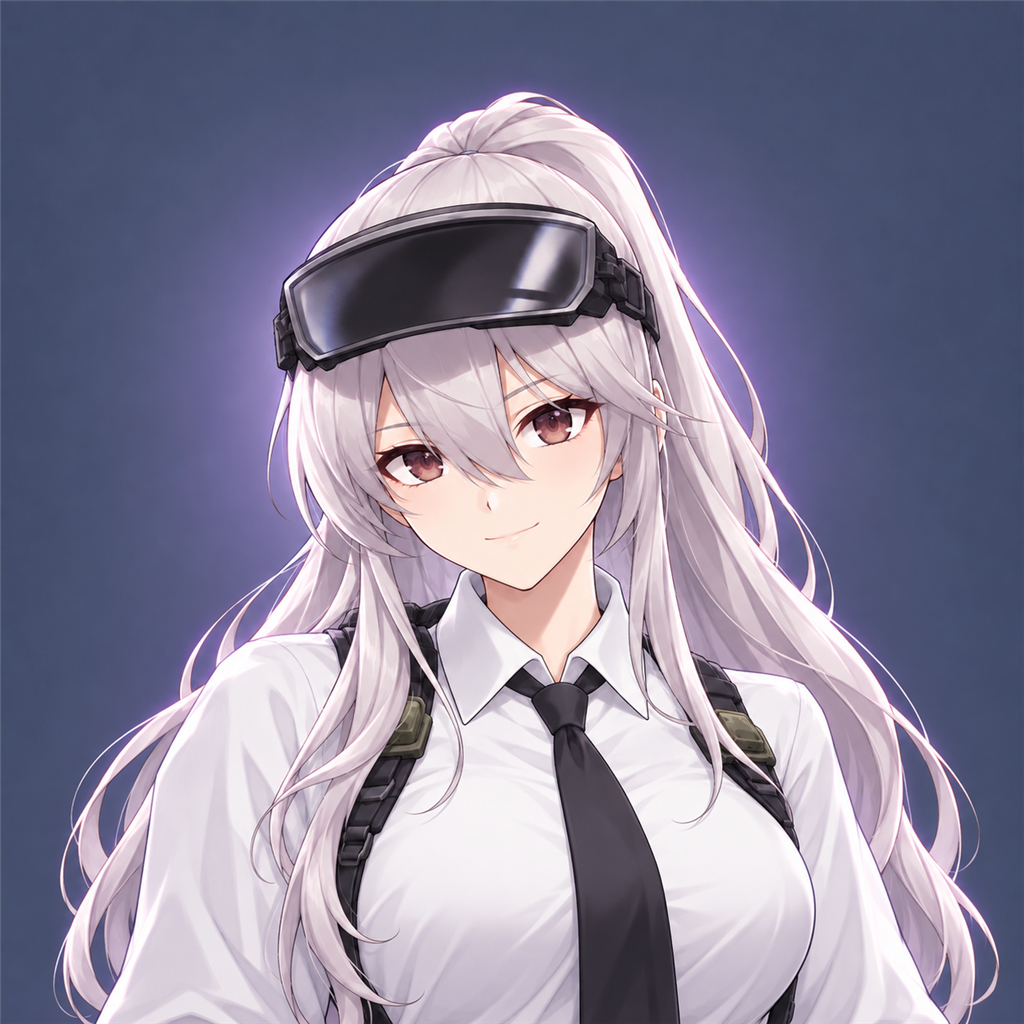
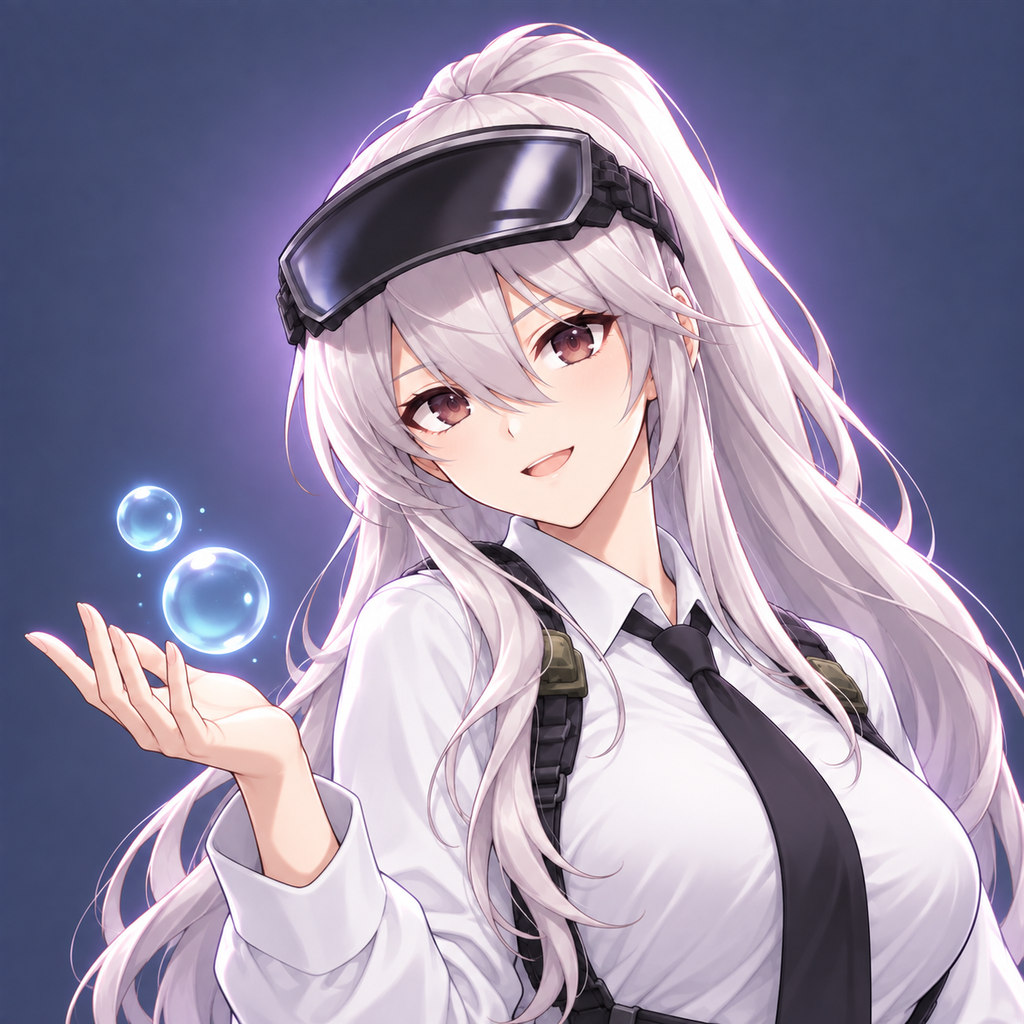
feat：换头像

diff --git a/Assets/Splatoon/Editor/Prototype/SplooshGirlBuilder.cs b/Assets/Splatoon/Editor/Prototype/SplooshGirlBuilder.cs
@@ -141,7 +141,8 @@ namespace Splatoon.Editor
             profile.MuzzlePosition = go.transform.InverseTransformPoint(view.Nozzle.position); profile.LeftMuzzlePosition = profile.MuzzlePosition;
             EditorUtility.SetDirty(profile);
             view.TeamMarker.enabled = false;
-            Capture(go, scene, "Assets/GameResource/UI/HeroPortraits/SplooshGirlPortrait.png", 512);
+            // Model calibration previews must not overwrite the authored UI portrait.
+            Capture(go, scene, Report + "/hero-portrait-preview.png", 512);
             Capture(go, scene, Report + "/hero-front.png", 1000);
             graph.Destroy(); Object.DestroyImmediate(go);
         }

diff --git a/Docs/HeroSelection/PortraitPrompts.md b/Docs/HeroSelection/PortraitPrompts.md
@@ -24,3 +24,36 @@ RifleGirl, DualPistolGirl, ShotgunGirl and MachineGunGirl received this targeted
 > Edit this exact portrait only to ZOOM OUT the composition by 25 percent, revealing the COMPLETE top of the head, all hair, hat and accessories and at least 7 percent empty background margin ABOVE the highest point. Add the missing top content naturally. Preserve this exact character identity, hairstyle, costume, expression, style, color scheme and background. IMPORTANT no headwear or hair cut off at top. Keep square canvas, resize final output to exactly 1024 x 1024 pixels. Chest-up bust, one character, no text. Do not invent a cheek beauty mark if the current character is not the pink beret girl; remove cheek dot for silver-white ponytail girl.
 
 The returned files were technically normalized to the requested 1024 × 1024 pixel size without changing their composition. The originals were retained. Visual checks covered headgear cropping, identity, text absence and the actual 100-pixel in-game card presentation.
+
+
+## 2026-09-20: nine distinct hero portraits
+
+All nine selectable heroes now have independently redrawn portraits, generated using the built-in imagegen tool. Existing portraits were identity/style references; SplooshGirl used RifleGirl as the shared identity reference with explicit chibi proportions. Original outputs remain in the Codex generated-images folder; installed PNGs are normalized to 1024 x 1024 without cropping. Existing asset GUIDs and import settings are preserved. BubbleShotgunGirl has a new portrait asset and Addressables entry; TbHero.xlsx is the authoritative source of its new address.
+
+### Prompt template
+
+```text
+Use case: stylized-concept. Create ONE replacement hero-selection portrait, exactly 1024x1024 square PNG. Reference image is identity and illustration style reference, NOT a pose template. Keep this character's hair color, hairstyle, eyes, headwear, clothing, costume colors and recognizable identity. Redraw into this NEW pose and expression: {pose} Polished Japanese anime cel-shaded illustration, clean line art and rich restrained shading consistent across a nine-hero set. Upper torso/chest-up portrait, face prominent and readable at 100px thumbnail size. Keep entire head/hair/hat and all headgear inside canvas with at least 7% clear top margin, shoulders and relevant gesture visible. Opaque simple deep blue-gray background, muted lavender halo, soft rim lighting. One character only, no text, letters, names, numbers, watermark, UI, border, or weapons. Hands anatomically correct. Do not merely mirror old portrait.
+```
+
+### Per-hero pose substitutions
+
+- **紫苑 (RifleGirl)**: Upright composed leader pose, torso turned 30 degrees to image LEFT, chin level, steady direct gaze and subtle confident closed-mouth smile, one hand resting over upper chest.
+- **夜雀 (DualPistolGirl)**: Low camera angle, torso turned 40 degrees to image RIGHT, chin raised with a cocky asymmetric grin, one gloved hand touching the brim of her cap, sunglasses stay on.
+- **白凛 (ShotgunGirl)**: Cool stern expression with closed unsmiling lips, torso facing image LEFT at 50 degrees, eyes glancing back at viewer, shoulders square, arms folded visibly at bottom. Dramatic disciplined silhouette.
+- **隼音 (PistolGirl)**: Alert scout, almost side profile facing image RIGHT at 60 degrees, focused serious eyes looking off-frame right, slight forward lean, one gloved hand raised beside helmet as a listening gesture.
+- **月兔 (RocketLauncherGirl)**: Thoughtful quiet expression, head tilted slightly, three-quarter toward image LEFT, eyes gazing upward left, one gloved index finger gently under chin. Both tall rabbit-ear antennas entirely visible.
+- **焰橙 (MachineGunGirl)**: Energetic broad open-mouth laughing smile, front-facing head tilted back slightly, torso twisting right, one bent arm with celebratory clenched fist beside shoulder; bright determined eyes.
+- **沫澜 (BubbleGirl)**: Gentle playful personality, torso turned toward image RIGHT at 35 degrees, head inclined toward viewer, eyes open soft cheerful smile, open upturned palm at lower left with two small translucent cyan bubbles above it, no face overlap. Clearly different from a stern crossed-arms soldier.
+- **铃芽 (SplooshGirl)**: Distinct super-deformed CHIBI version of this same character: large round head, tiny shoulders, 2.5-head overall proportions implied by close bust framing, big purple eyes, playful one-eye wink and open happy smile, head tilted toward image RIGHT, small V-sign hand beside cheek without hiding face. Keep pink beret, taupe hair side bun, purple jacket.
+- **泡霰 (BubbleShotgunGirl)**: Bold mischievous personality: body turned away toward image RIGHT, face looking BACK over shoulder toward viewer, chin slightly lowered, one eyebrow raised and a cheeky toothy grin, high ponytail swinging LEFT, one gloved hand gripping shoulder strap. Strong over-shoulder silhouette, no folded arms, no bubbles.
+
+### Validation and maintenance
+
+- Reviewed all nine full images and a 100px thumbnail strip: distinct expressions/poses, complete headwear, readable faces, no text in assets.
+- Source workbook changed only Hero!AH12 in cell values; Luban generation updates only the corresponding portraitAddress in tbhero.json.
+- Verified nine unique addresses, GUID mappings, PNG hashes and 1024 x 1024 dimensions.
+- Runtime uses HeroContentService to load Texture2D by HeroConfig.PortraitAddress; hero selection draws the loaded portrait with ScaleToFit.
+- SplooshGirlBuilder writes calibration renders under Reports/SplooshGirl, preserving the authored UI portrait on rebuild.
+- Overview: Reports/HeroPortraitRefresh/overview.png; thumbnail strip: Reports/HeroPortraitRefresh/thumbnails.png.
+- Unity Play Mode and packaged-build visual acceptance were not run in this pass.
